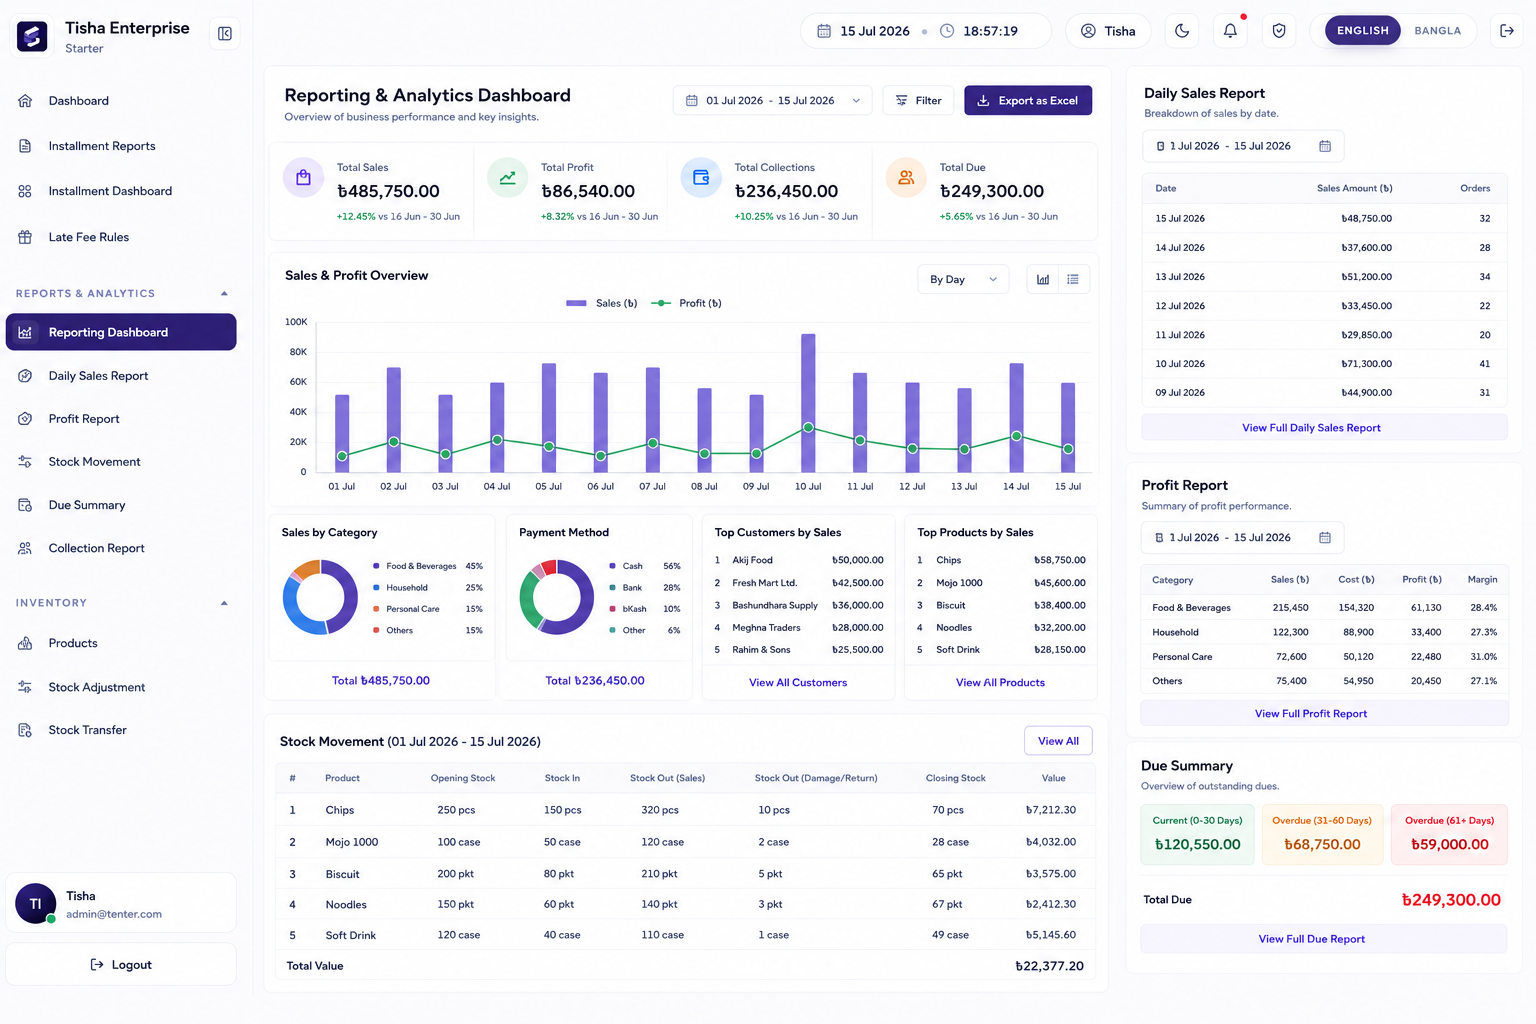
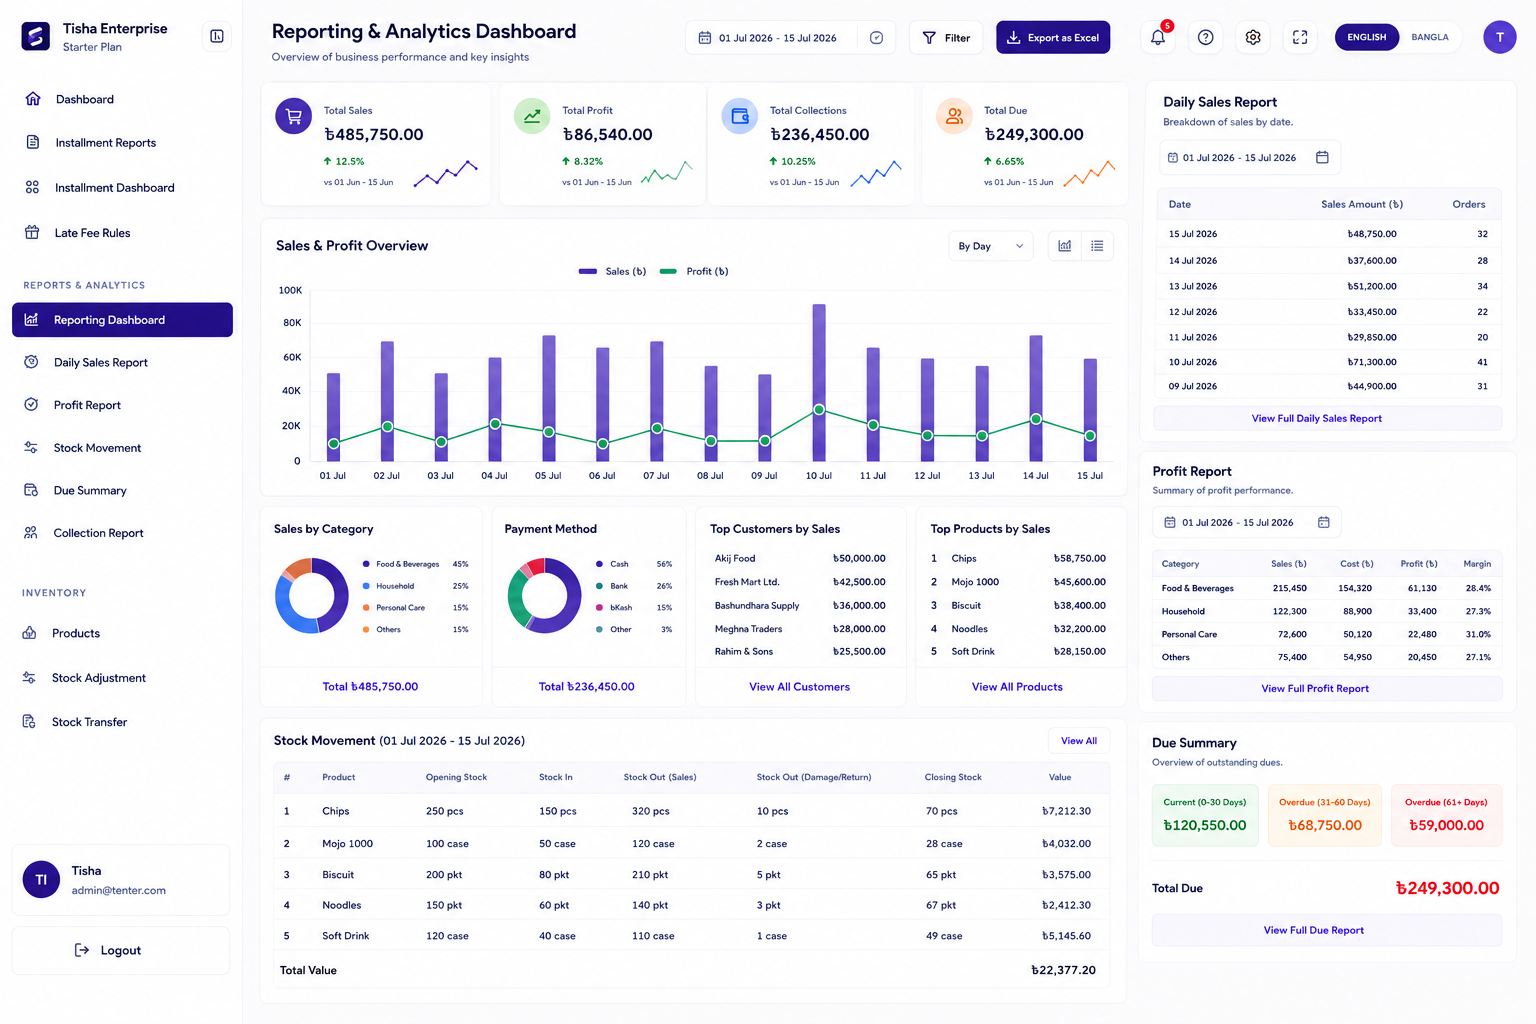
fix

diff --git a/backend/scripts/seedElectroMart.js b/backend/scripts/seedElectroMart.js
@@ -611,14 +611,14 @@ async function main() {
     validityDays: 7,
     items: [
       { productId: productIdBySku.get("EM-KIT-WLTMW20"), productName: "Walton Microwave Oven 20L (Solo)", quantity: 1, unitPrice: 9990 },
-      { productId: productIdBySku.get("EM-KIT-MIYBL102"), productName: "Miyako Blender & Juicer 1.5L", quantity: 1, unitPrice: 2500 },
+      { productName: "Home Delivery & Installation Service", quantity: 1, unitPrice: 500 },
     ],
-    notes: "Quote for microwave oven + blender, per customer's phone inquiry",
+    notes: "Quote for microwave oven with home delivery, per customer's phone inquiry",
   }, actor);
 
   await operations.quotationService.convertToInvoice(quotation.id, {
     paymentMethod: "CASH",
-    paidAmount: 12490,
+    paidAmount: 10490,
     invoiceDate: daysAgo(2),
     note: "Converted from quotation — customer confirmed at store",
   }, actor);
@@ -704,12 +704,14 @@ async function main() {
   }, actor);
 
   // ── 20. Expenses (+ one soft-deleted, to give the Trash page content) ───
+  // expenseService only allows creating an expense dated today — unlike
+  // every other flow above, there is no way to backdate one at creation.
   console.log("  [20/21] Expenses…");
-  await operations.expenseService.saveExpense({ date: daysAgo(4), category: "Rent", amount: 45000, note: "Showroom monthly rent" }, actor);
-  await operations.expenseService.saveExpense({ date: daysAgo(3), category: "Vehicle", amount: 6000, note: "Delivery van fuel for home deliveries" }, actor);
-  await operations.expenseService.saveExpense({ date: daysAgo(3), category: "Load/Unload", amount: 3500, note: "Warehouse unloading labour for new stock" }, actor);
-  await operations.expenseService.saveExpense({ date: daysAgo(2), category: "Office", amount: 8500, note: "Electricity bill & stationery" }, actor);
-  await operations.expenseService.saveExpense({ date: daysAgo(1), category: "Other", amount: 12000, note: "Facebook ads for Eid promotion" }, actor);
+  await operations.expenseService.saveExpense({ date: daysAgo(0), category: "Rent", amount: 45000, note: "Showroom monthly rent" }, actor);
+  await operations.expenseService.saveExpense({ date: daysAgo(0), category: "Vehicle", amount: 6000, note: "Delivery van fuel for home deliveries" }, actor);
+  await operations.expenseService.saveExpense({ date: daysAgo(0), category: "Load/Unload", amount: 3500, note: "Warehouse unloading labour for new stock" }, actor);
+  await operations.expenseService.saveExpense({ date: daysAgo(0), category: "Office", amount: 8500, note: "Electricity bill & stationery" }, actor);
+  await operations.expenseService.saveExpense({ date: daysAgo(0), category: "Other", amount: 12000, note: "Facebook ads for Eid promotion" }, actor);
 
   const trashExpense = await operations.expenseService.saveExpense({ date: daysAgo(0), category: "Other", amount: 700, note: "Duplicate entry — to be removed" }, actor);
   await operations.expenseService.removeExpense(trashExpense.id, actor, "Entered twice by mistake");

diff --git a/backend/db/schema.js b/backend/db/schema.js
@@ -3105,4 +3105,14 @@ export async function createSchema(pool) {
     WHERE permission = 'view_state'
     ON CONFLICT (role, tenant_id, permission) DO NOTHING;
   `);
+
+  // quotationService.convertToInvoice already handles a null productId
+  // defensively throughout (cost-snapshot lookup, stock-delta skip) so an
+  // ad-hoc/non-catalog quotation line — a real, user-reachable feature in
+  // the Quotation form — can be converted to an invoice. The NOT NULL
+  // constraint below was the only thing stopping that from actually
+  // working; relax it to match what the service layer already expects.
+  await pool.query(`
+    ALTER TABLE sales_invoice_items ALTER COLUMN product_id DROP NOT NULL;
+  `);
 }

diff --git a/backend/services/profitService.js b/backend/services/profitService.js
@@ -245,7 +245,7 @@ export class ProfitService {
           const product = directoryMap.get(row.productId);
           return {
             productId: row.productId,
-            productName: product?.name || row.productId,
+            productName: product?.name || row.productId || "Custom / non-catalog items",
             categoryId: product?.categoryId || null,
             categoryName: product?.categoryName || null,
             quantity: row.quantity,